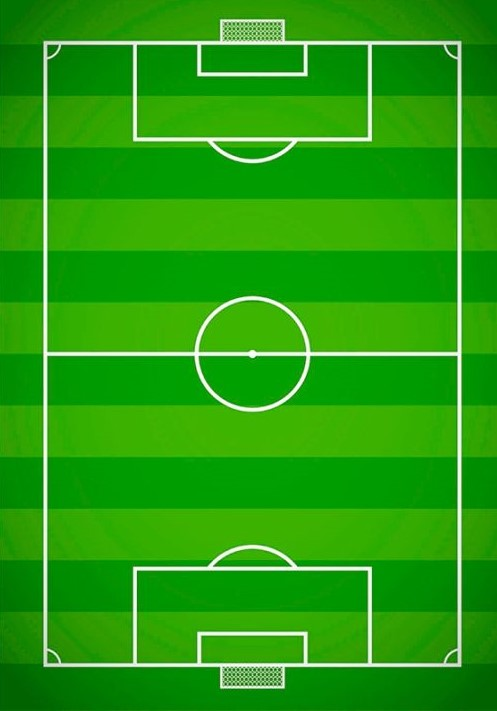
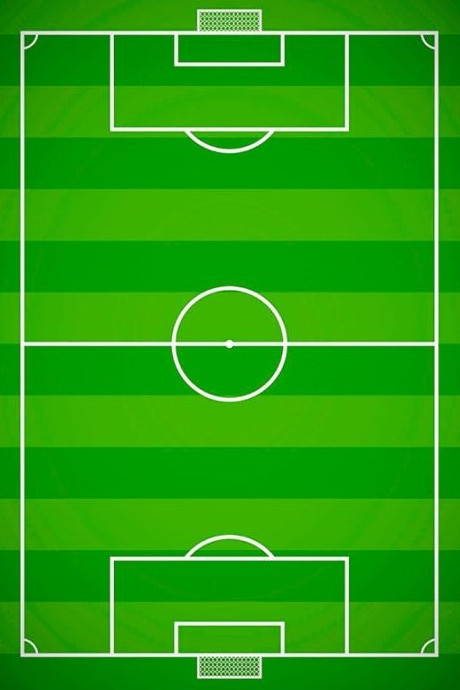
Definir las dos partes independientes del campo de fútbol

diff --git a/index.html b/index.html
@@ -21,28 +21,46 @@
             <div class="containerShelf">
                 <table>
                     <tr>
-                        <td><img src="img/unaisimon.jpg" id="unaisimon" class="imagenDisplay" alt="Unai Simon" draggable="true" ondragstart="drag(event)" /></td>
-                        <td><img src="img/robertsanchez.jpg" id="robertsanchez" class="imagenDisplay" alt="Roberto Sanchez" draggable="true" ondragstart="drag(event)"/></td>
-                        <td><img src="img/azpilizcueta.jpg" id="azpilizcueta" class="imagenDisplay" alt="Azpilizcueta" draggable="true" ondragstart="drag(event)"/></td>
-                        <td><img src="img/ericgarcia.jpg" id="ericgarcia" class="imagenDisplay" alt="Eric García" draggable="true" ondragstart="drag(event)"/></td>
-                        <td><img src="img/jordialba.jpg" id="jordialba" class="imagenDisplay" alt="Jordi Alba" draggable="true" ondragstart="drag(event)"/></td>
-                        <td><img src="img/laporte.jpg" id="laporte" class="imagenDisplay" alt="Laporte" draggable="true" ondragstart="drag(event)"/></td>
-                        <td><img src="img/pautorres.jpg" id="pautorres" class="imagenDisplay" alt="Pau Torres" draggable="true" ondragstart="drag(event)" /></td>
-                        <td><img src="img/gavi.jpg" id="gavi" class="imagenDisplay" alt="Gavi" draggable="true" ondragstart="drag(event)"/></td>
-                        <td><img src="img/koke.jpg" id="kike" class="imagenDisplay" alt="Kike" draggable="true" ondragstart="drag(event)" /></td>
+                        <td><img src="img/unaisimon.jpg" id="unaisimon" class="imagenDisplay" alt="Unai Simon"
+                                draggable="true" ondragstart="drag(event)" /></td>
+                        <td><img src="img/robertsanchez.jpg" id="robertsanchez" class="imagenDisplay"
+                                alt="Roberto Sanchez" draggable="true" ondragstart="drag(event)" /></td>
+                        <td><img src="img/azpilizcueta.jpg" id="azpilizcueta" class="imagenDisplay" alt="Azpilizcueta"
+                                draggable="true" ondragstart="drag(event)" /></td>
+                        <td><img src="img/ericgarcia.jpg" id="ericgarcia" class="imagenDisplay" alt="Eric García"
+                                draggable="true" ondragstart="drag(event)" /></td>
+                        <td><img src="img/jordialba.jpg" id="jordialba" class="imagenDisplay" alt="Jordi Alba"
+                                draggable="true" ondragstart="drag(event)" /></td>
+                        <td><img src="img/laporte.jpg" id="laporte" class="imagenDisplay" alt="Laporte" draggable="true"
+                                ondragstart="drag(event)" /></td>
+                        <td><img src="img/pautorres.jpg" id="pautorres" class="imagenDisplay" alt="Pau Torres"
+                                draggable="true" ondragstart="drag(event)" /></td>
+                        <td><img src="img/gavi.jpg" id="gavi" class="imagenDisplay" alt="Gavi" draggable="true"
+                                ondragstart="drag(event)" /></td>
+                        <td><img src="img/koke.jpg" id="kike" class="imagenDisplay" alt="Kike" draggable="true"
+                                ondragstart="drag(event)" /></td>
                     </tr>
                     <!-- Separador de filas -->
                     <tr class="espaceTable"></tr>
                     <tr>
-                        <td><img src="img/marcosllorente.jpg" id="marcosllorente" class="imagenDisplay" alt="Marcos Llorente" draggable="true" ondragstart="drag(event)" /></td>
-                        <td><img src="img/pedri.jpg" id="pedri" class="imagenDisplay" alt="Pedri" draggable="true" ondragstart="drag(event)" /></td>
-                        <td><img src="img/rodri.jpg" id="rodri" class="imagenDisplay" alt="Rodri" draggable="true" ondragstart="drag(event)" /></td>
-                        <td><img src="img/sergibusquets.jpg" id="sergibusquets" class="imagenDisplay" alt="Sergi Busquets" draggable="true" ondragstart="drag(event)" /></td>
-                        <td><img src="img/daniolmo.jpg" id="daniolmo" class="imagenDisplay" alt="Dano Olmo" draggable="true" ondragstart="drag(event)"/></td>
-                        <td><img src="img/ansufati.jpg" id="ansufati" class="imagenDisplay" alt="Ansu Fati" draggable="true" ondragstart="drag(event)" /></td>
-                        <td><img src="img/ferrantorres.jpg" id="ferrantorres" class="imagenDisplay" alt="Ferran Torres" draggable="true" ondragstart="drag(event)" /></td>
-                        <td><img src="img/morata.jpg" id="morata" class="imagenDisplay" alt="Morata" draggable="true" ondragstart="drag(event)"/></td>
-                        <td><img src="img/sarabia.jpg" id="sarabia" class="imagenDisplay" alt="Sarabia" draggable="true" ondragstart="drag(event)" /></td>
+                        <td><img src="img/marcosllorente.jpg" id="marcosllorente" class="imagenDisplay"
+                                alt="Marcos Llorente" draggable="true" ondragstart="drag(event)" /></td>
+                        <td><img src="img/pedri.jpg" id="pedri" class="imagenDisplay" alt="Pedri" draggable="true"
+                                ondragstart="drag(event)" /></td>
+                        <td><img src="img/rodri.jpg" id="rodri" class="imagenDisplay" alt="Rodri" draggable="true"
+                                ondragstart="drag(event)" /></td>
+                        <td><img src="img/sergibusquets.jpg" id="sergibusquets" class="imagenDisplay"
+                                alt="Sergi Busquets" draggable="true" ondragstart="drag(event)" /></td>
+                        <td><img src="img/daniolmo.jpg" id="daniolmo" class="imagenDisplay" alt="Dano Olmo"
+                                draggable="true" ondragstart="drag(event)" /></td>
+                        <td><img src="img/ansufati.jpg" id="ansufati" class="imagenDisplay" alt="Ansu Fati"
+                                draggable="true" ondragstart="drag(event)" /></td>
+                        <td><img src="img/ferrantorres.jpg" id="ferrantorres" class="imagenDisplay" alt="Ferran Torres"
+                                draggable="true" ondragstart="drag(event)" /></td>
+                        <td><img src="img/morata.jpg" id="morata" class="imagenDisplay" alt="Morata" draggable="true"
+                                ondragstart="drag(event)" /></td>
+                        <td><img src="img/sarabia.jpg" id="sarabia" class="imagenDisplay" alt="Sarabia" draggable="true"
+                                ondragstart="drag(event)" /></td>
                     </tr>
                     <tr class="espaceTable"></tr>
                     <tr>
@@ -104,7 +122,10 @@
             </table>
         </div>
         <div class="containerBasket">
-            <img src="img/campofutbol.jpg" class="futbolBackground">
+            <!-- <img src="img/campofutbol.jpg" class="futbolBackground"> -->
+            <img src="img/camposup.jpg" class="futbolBackground">
+            <img src="img/campoinf.jpg" class="futbolBackground">
             <div class="priceCart">0</div>
         </div>
+    </div>
 </body>

diff --git a/css/styles.css b/css/styles.css
@@ -106,7 +106,7 @@ body {
 
 .futbolBackground {
 
-    height: 20em;
+    /* height: 20em; */
     width: 15em;
 
 
@@ -114,6 +114,7 @@ body {
     flex-direction: column;
     align-items: center;
     justify-content: center;
+    /* object-fit: cover; */
     box-shadow: 2px 2px 10px #999;
 }
 
